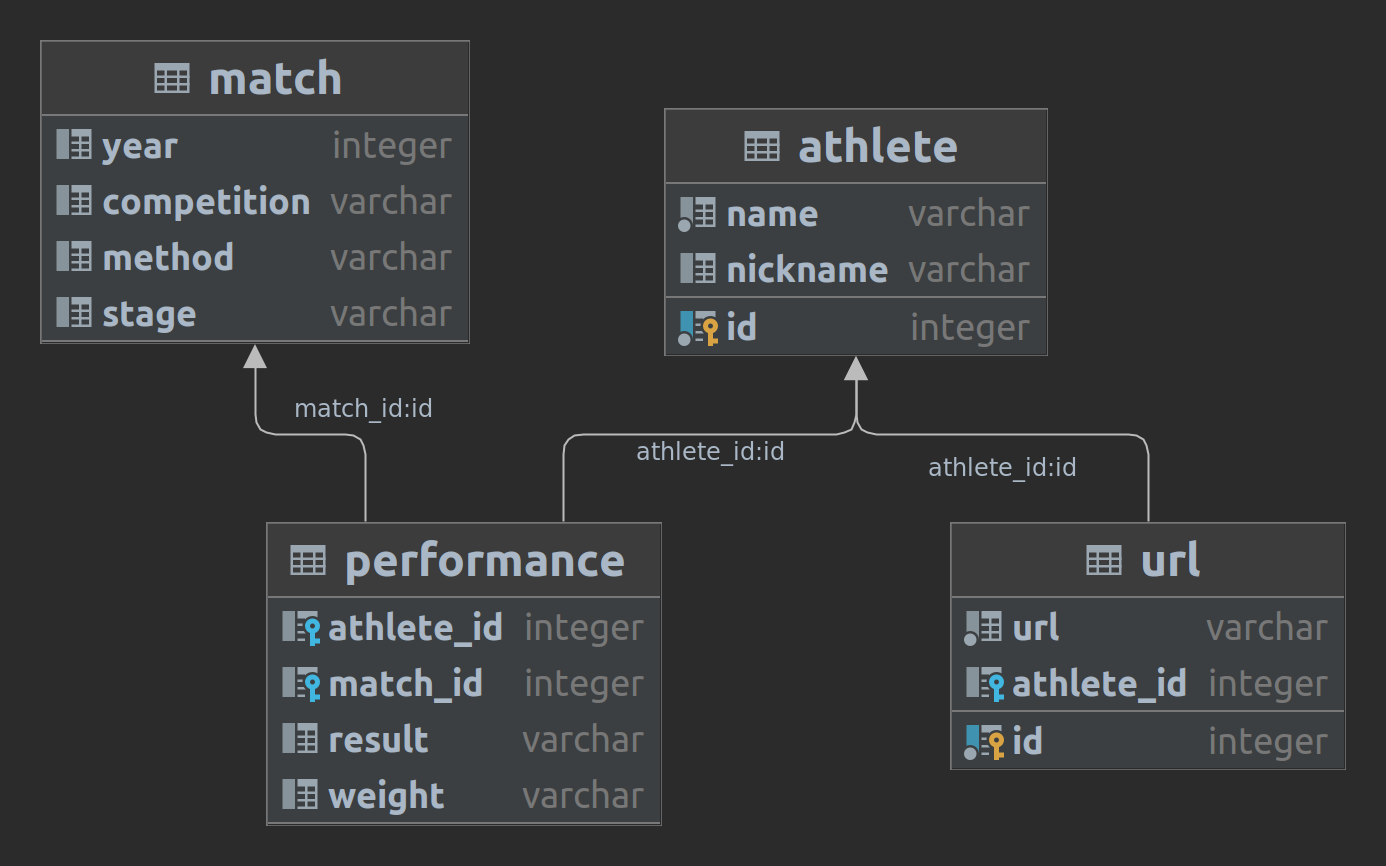
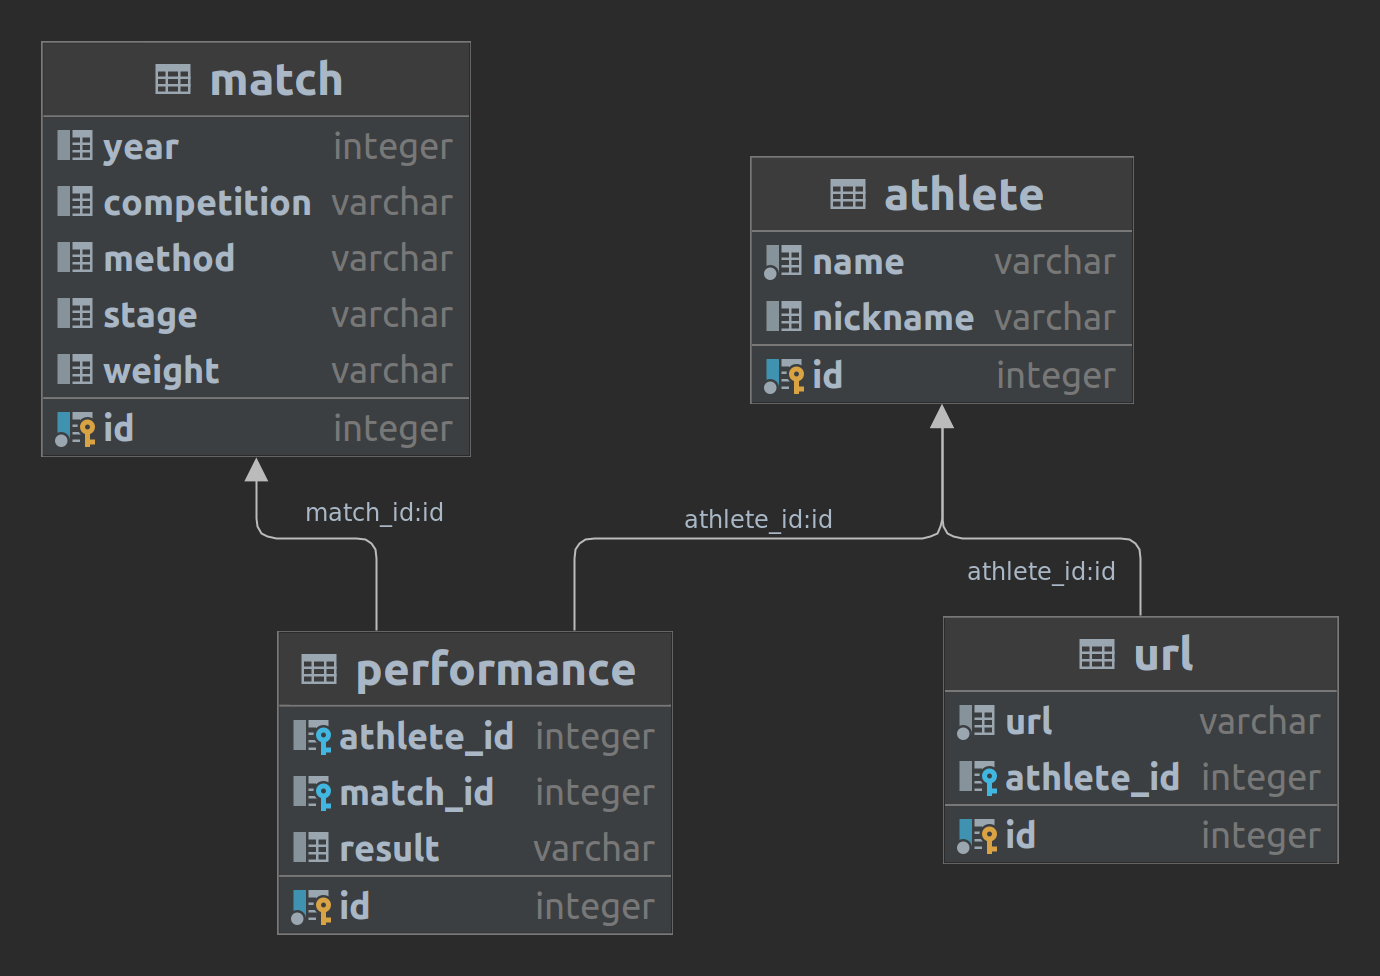
update schema

Changed region(s): [[0.0312, 0.0312, 0.9659, 0.9665], [0.4674, 0.1247, 0.8101, 0.4988]]

diff --git a/alembic/versions/72d11429849c_add_weight_column_in_performance.py b/alembic/versions/72d11429849c_add_weight_column_in_performance.py
@@ -21,7 +21,7 @@ depends_on: Union[str, Sequence[str], None] = None
 def upgrade() -> None:
     op.execute(
         """
-        ALTER TABLE performance 
+        ALTER TABLE match 
         ADD COLUMN weight VARCHAR;
         """
     )
@@ -30,7 +30,7 @@ def upgrade() -> None:
 def downgrade() -> None:
     op.execute(
         """
-        ALTER TABLE performance
+        ALTER TABLE match
         DROP COLUMN weight;
         """
     )

diff --git a/README.md b/README.md
@@ -24,9 +24,10 @@ do`python3 -m pip install .` for setup
 
 `performance` Each athlete has 1 performance for each match they participated in.
 
-| field  | meaning       |
-|--------|---------------|
-| result | Win/Loss/Draw |
+| field  | meaning                     |
+|--------|-----------------------------|
+| result | Win/Loss/Draw               |
+
 
 `match` One entry per match, each match is linked to two performances, 
 one performance from each athlete participating in the match
@@ -36,6 +37,8 @@ one performance from each athlete participating in the match
 | year        | integer                                                              |
 | competition | the name of the promotion (eg ADCC, IBJJF Worlds, IBJJF Euros, AIGA) |
 | method      | how the match was won (eg. armbar, points (2-0), DQ)                 |
+| stage       | the stage of the tournament eg quarterfinals, semifinals, finals     |
+| weight      | the official weight class of the match                               |
 
 
 
